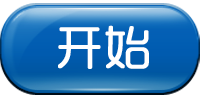
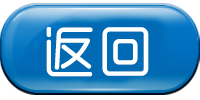
添加退出界面
在游戏界面点击q，进入退出界面。

Changed region(s): [[0.21, 0.18, 0.81, 0.84], [0.36, 0.21, 0.42, 0.24]]

diff --git a/Classes/GameControler.cpp b/Classes/GameControler.cpp
@@ -3,8 +3,11 @@
 #include "Net/Net.h"
 #include "Tool/MathTool.h"
 #include <thread>
+#include"QuitScene.h"
 
 USING_NS_CC;
+
+using namespace CocosDenshion;
 
 //it's a suited proportion to eliminate the blank section of the background;
 #define BACKGROUND_WIDTH_PROPORTION 1
@@ -66,6 +69,17 @@ bool GameControler::initControler(int state)
 		return false;
 	}
 	this->scheduleUpdate();
+
+	auto listener = EventListenerKeyboard::create();
+	listener->onKeyPressed = [=](EventKeyboard::KeyCode keyCode, Event * event)
+	{
+		keys[keyCode] = true;
+	};
+	listener->onKeyReleased = [=](EventKeyboard::KeyCode keyCode, Event * event)
+	{
+		keys[keyCode] = false;
+	};
+	_eventDispatcher->addEventListenerWithSceneGraphPriority(listener, this);
 	return true;
 }
 
@@ -270,6 +284,12 @@ void GameControler::update(float dt)
 		position.y = visible_size.height - background_size.height;
 	}
 	this->setPosition(position);
+
+	Node::update(dt);
+	auto q = EventKeyboard::KeyCode::KEY_Q;
+	if (isKeyPressed(q)) {
+		keyPressedDuration(q);
+	}
 }
 
 void GameControler::updateWithServer()
@@ -368,4 +388,21 @@ void GameControler::updateWithClient()
 	command.x = position.x;
 	command.y = position.y;
 	Client::getInstance()->addNetCommand(command);
+}
+
+bool GameControler::isKeyPressed(EventKeyboard::KeyCode keyCode) {
+	if (keys[keyCode]) {
+		return true;
+	}
+	else {
+		return false;
+	}
+}
+
+void GameControler::keyPressedDuration(EventKeyboard::KeyCode code) {
+	auto sc = QuitScene::createScene();
+	Director::getInstance()->pushScene(sc);
+	if (UserDefault::getInstance()->getBoolForKey(SOUND_KEY)) {
+		SimpleAudioEngine::getInstance()->playEffect("sound/bubble.mp3");
+	}
 }

diff --git a/Classes/GameControler.h b/Classes/GameControler.h
@@ -8,6 +8,8 @@
 #define USE_SERVER 1
 #define USE_CLIENT 2
 
+USING_NS_CC;
+
 class ControledBallManager;
 class ControledBall;
 class FoodBall;
@@ -35,6 +37,9 @@ public:
 	void updateWithServer();
 	//when start game as client,call this function to update;
 	void updateWithClient();
+	bool isKeyPressed(EventKeyboard::KeyCode keyCode);
+	std::map<cocos2d::EventKeyboard::KeyCode, bool> keys;
+	void keyPressedDuration(EventKeyboard::KeyCode code);
 protected:
 	std::vector<ControledBallManager*> manager_container_;
 	std::list<FoodBall*> food_list_;

diff --git a/Classes/Test/Test.h b/Classes/Test/Test.h
@@ -2,6 +2,7 @@
 #define BUBG_CLASSES_TEST_TEST_H_
 
 #include "cocos2d.h"
+#include"SettingScene1.h"
 
 class TestScene : public cocos2d::Scene
 {
